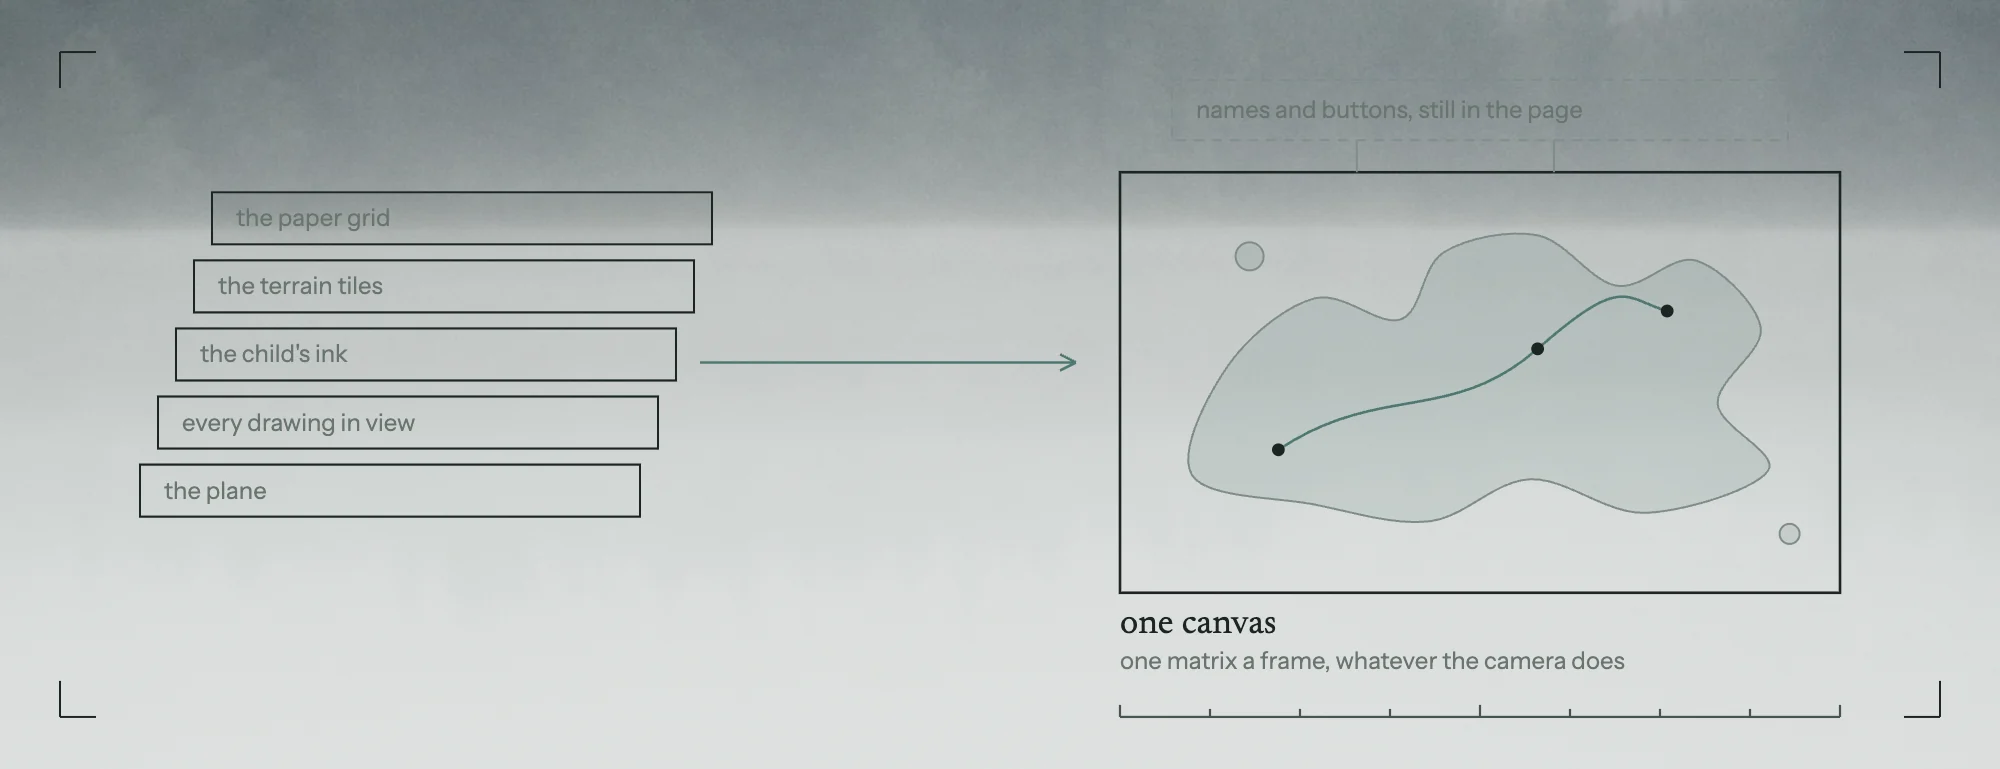
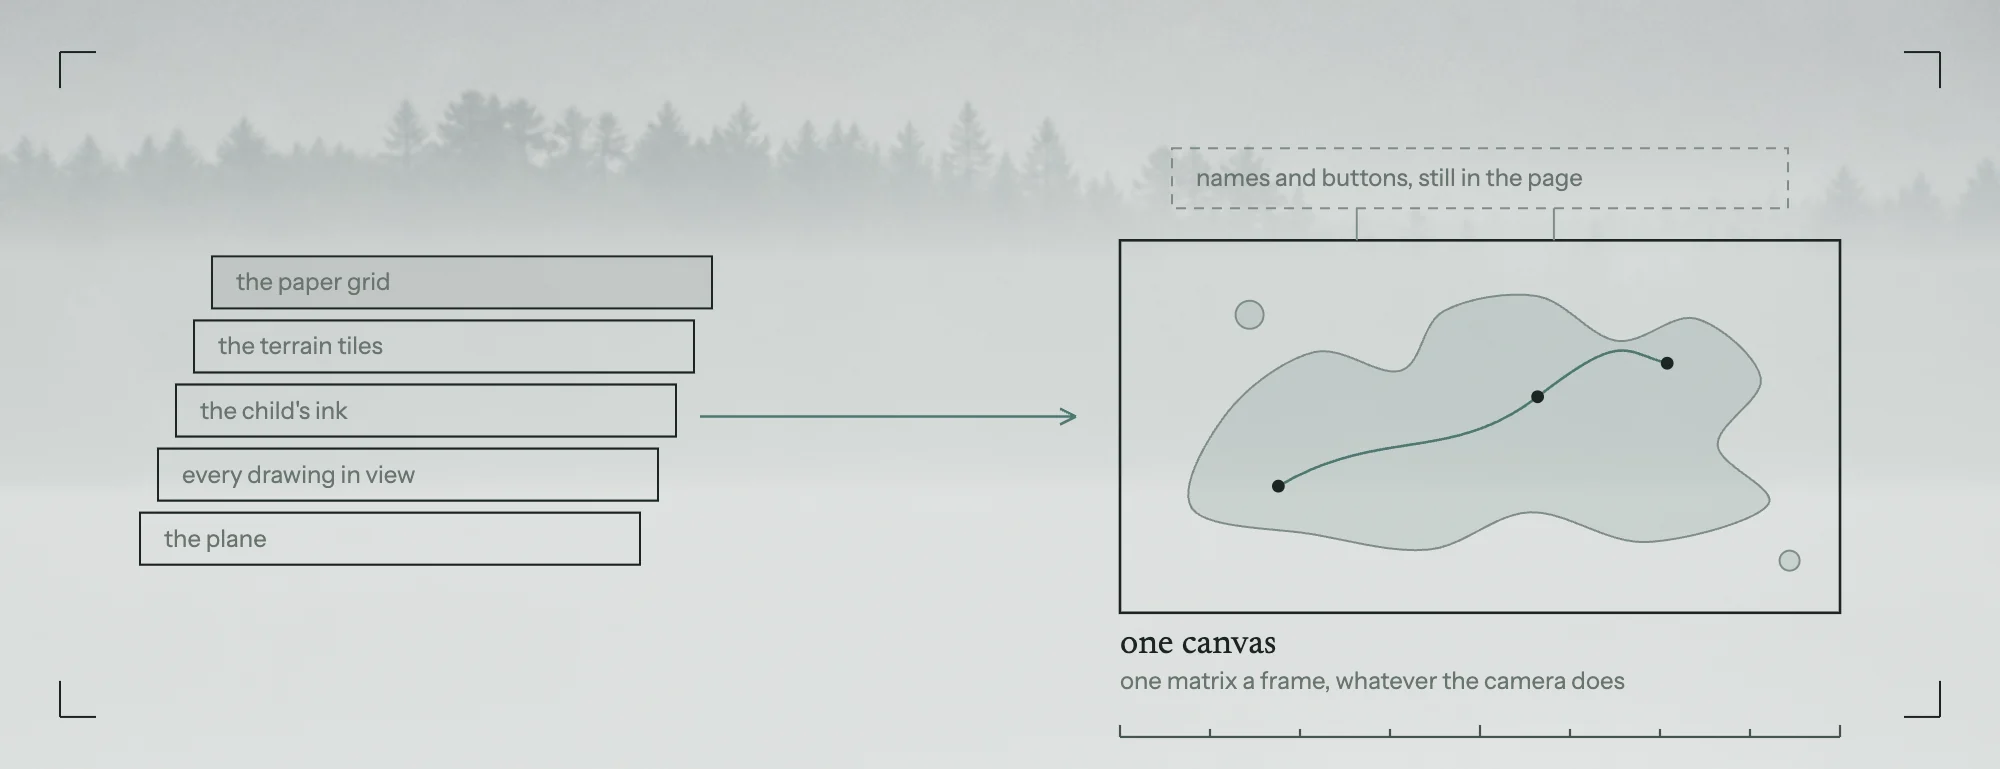
Aim the map cover at the treeline so no label sits on a dark ground

diff --git a/scripts/covers/map-on-one-canvas.html b/scripts/covers/map-on-one-canvas.html
@@ -34,18 +34,20 @@
                 width: 100%;
                 height: 100%;
                 object-fit: cover;
-                object-position: center 52%;
+                object-position: center var(--crop, 52%);
                 filter: saturate(0.7) contrast(1);
             }
+            /* the trees stay legible at the top; the paper thickens where the ink runs, so a
+               label is never set on a dark ground */
             .wash {
                 position: absolute;
                 inset: 0;
                 background: linear-gradient(
                     to bottom,
-                    rgba(233, 236, 234, 0.06) 0%,
-                    rgba(233, 236, 234, 0.4) 30%,
-                    rgba(233, 236, 234, 0.74) 58%,
-                    rgba(233, 236, 234, 0.84) 100%
+                    rgba(233, 236, 234, 0.3) 0%,
+                    rgba(233, 236, 234, 0.52) 18%,
+                    rgba(233, 236, 234, 0.8) 34%,
+                    rgba(233, 236, 234, 0.88) 100%
                 );
             }
             svg {
@@ -116,6 +118,9 @@
             sheet.style.setProperty("--w", `${PW}px`);
             sheet.style.setProperty("--h", `${PH}px`);
             const wide = PW / PH > 2;
+            // a wide plate crops a tall photograph hard, so it is aimed at the treeline rather
+            // than at the reflection under it
+            sheet.style.setProperty("--crop", wide ? "6%" : "30%");
             const VB = wide ? [1000, 384] : [1000, 667];
             S.setAttribute("viewBox", `0 0 ${VB[0]} ${VB[1]}`);
             const ns = "http://www.w3.org/2000/svg";
@@ -141,7 +146,7 @@
                 "the plane",
             ];
             const S0 = wide
-                ? { x: 70, y: 96, w: 250, h: 26, step: 34 }
+                ? { x: 70, y: 128, w: 250, h: 26, step: 32 }
                 : { x: 110, y: 120, w: 300, h: 30, step: 42 };
             PASSES.forEach((name, i) => {
                 const y = S0.y + i * S0.step;
@@ -153,8 +158,8 @@
 
             // the canvas they stack into
             const C = wide
-                ? { x: 560, y: 86, w: 360, h: 210 }
-                : { x: 150, y: 372, w: 700, h: 226 };
+                ? { x: 560, y: 120, w: 360, h: 186 }
+                : { x: 150, y: 374, w: 700, h: 196 };
             rect(C.x, C.y, C.w, C.h, "ink");
             // one country inside it, drawn through a closed loop of points rather than as a blob
             const SHORE = [
